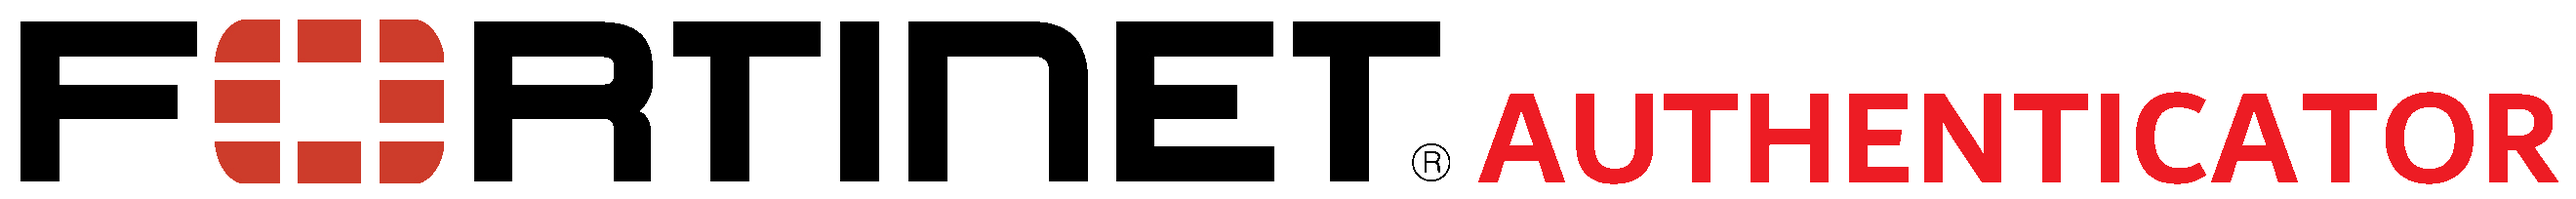
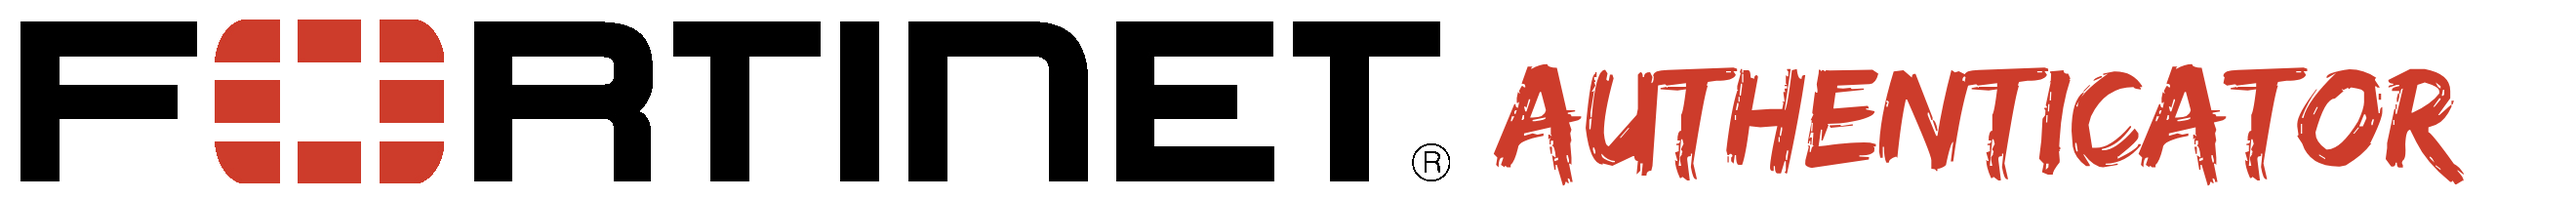
UPDATE

Changed region(s): [[0.5591, 0.3235, 0.9939, 0.9412]]

diff --git a/Readme.md b/Readme.md
@@ -1,1 +1,3 @@
 Readme
+
+fORTI FONT EDO 150
